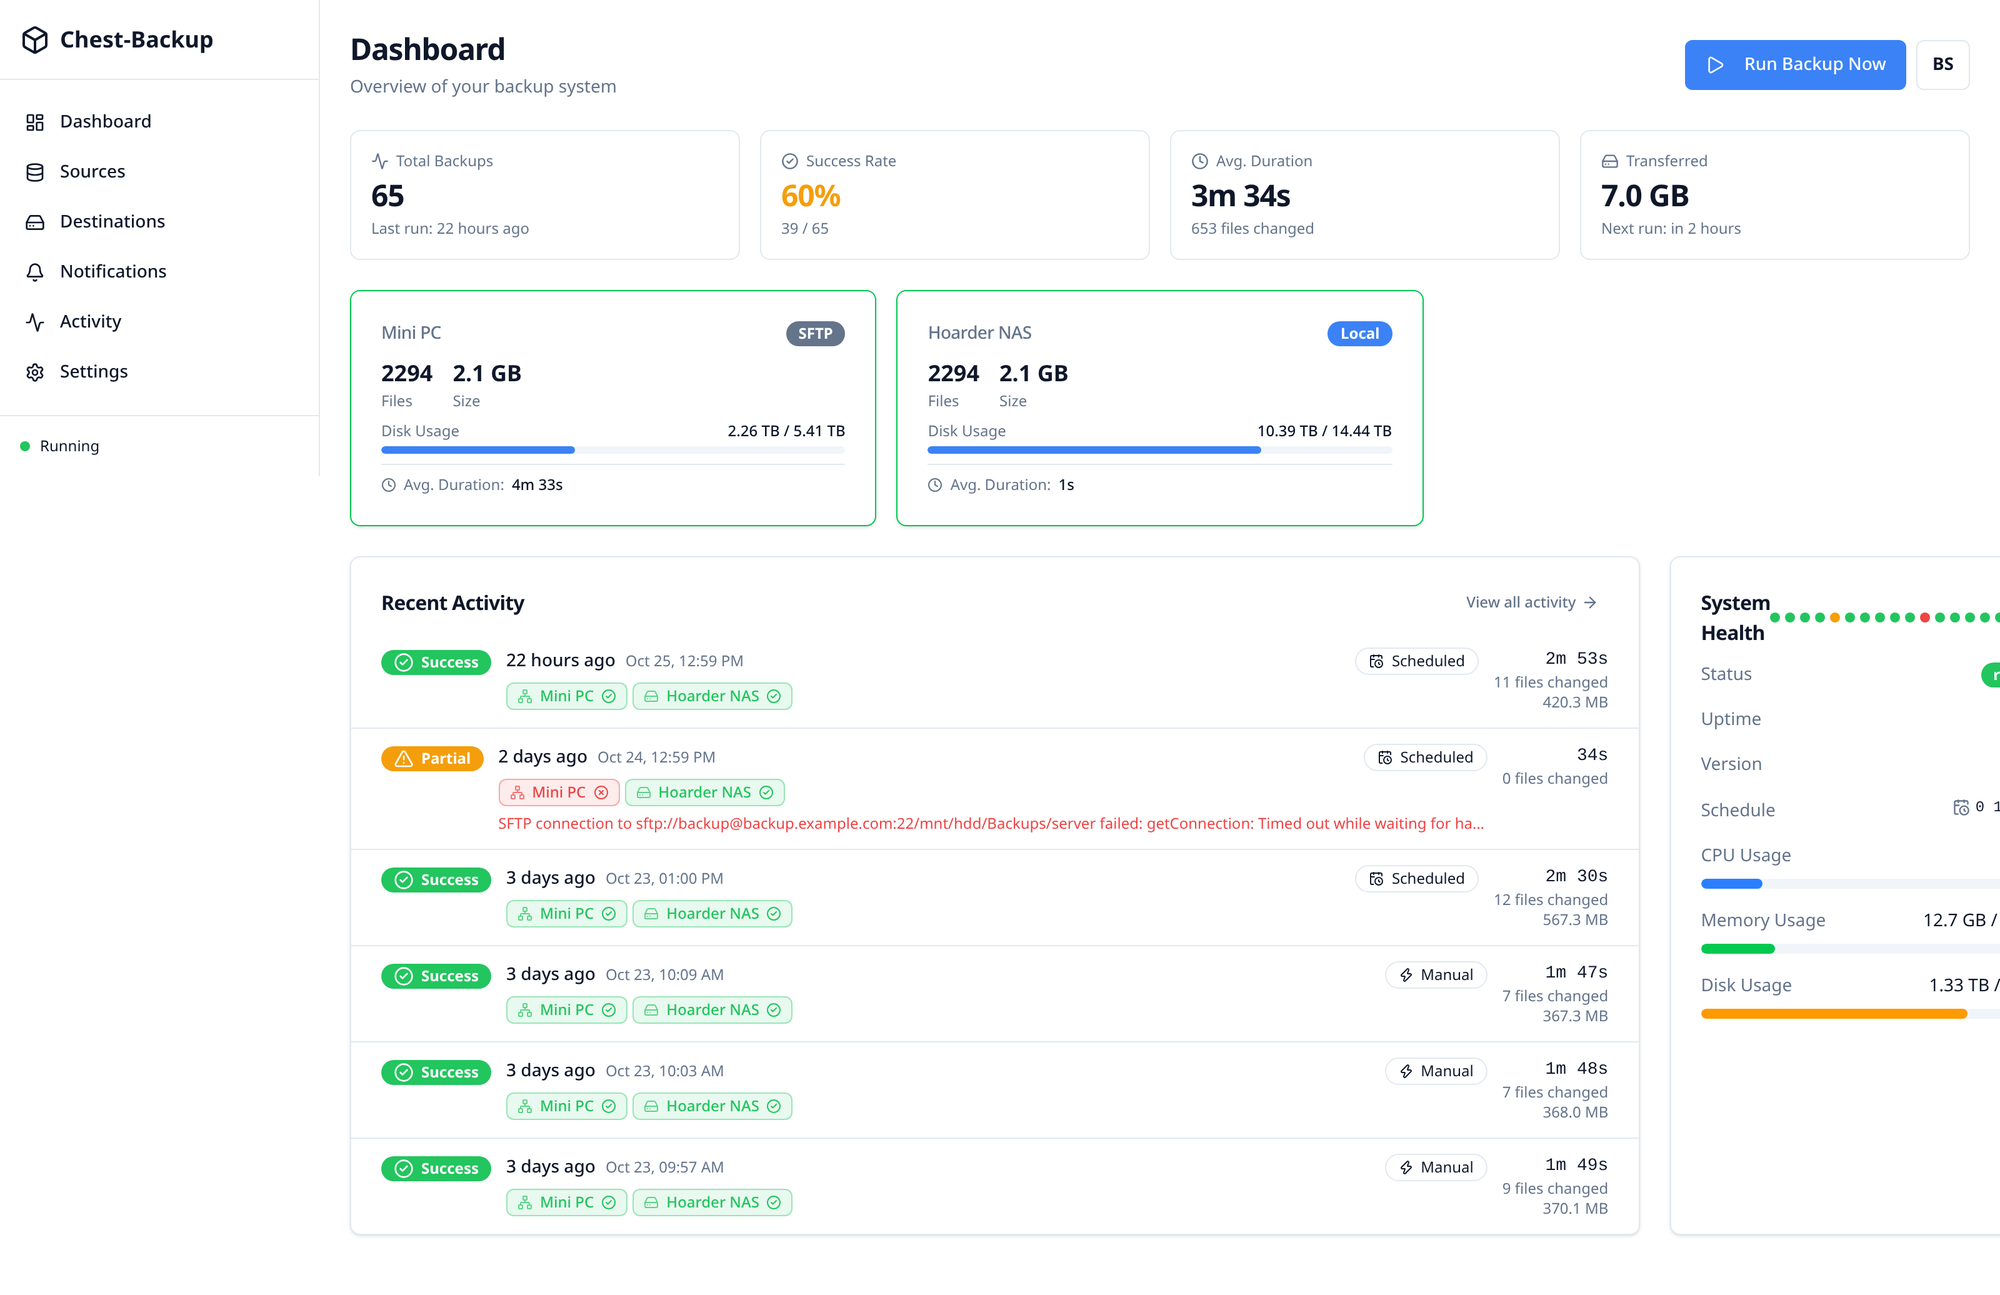
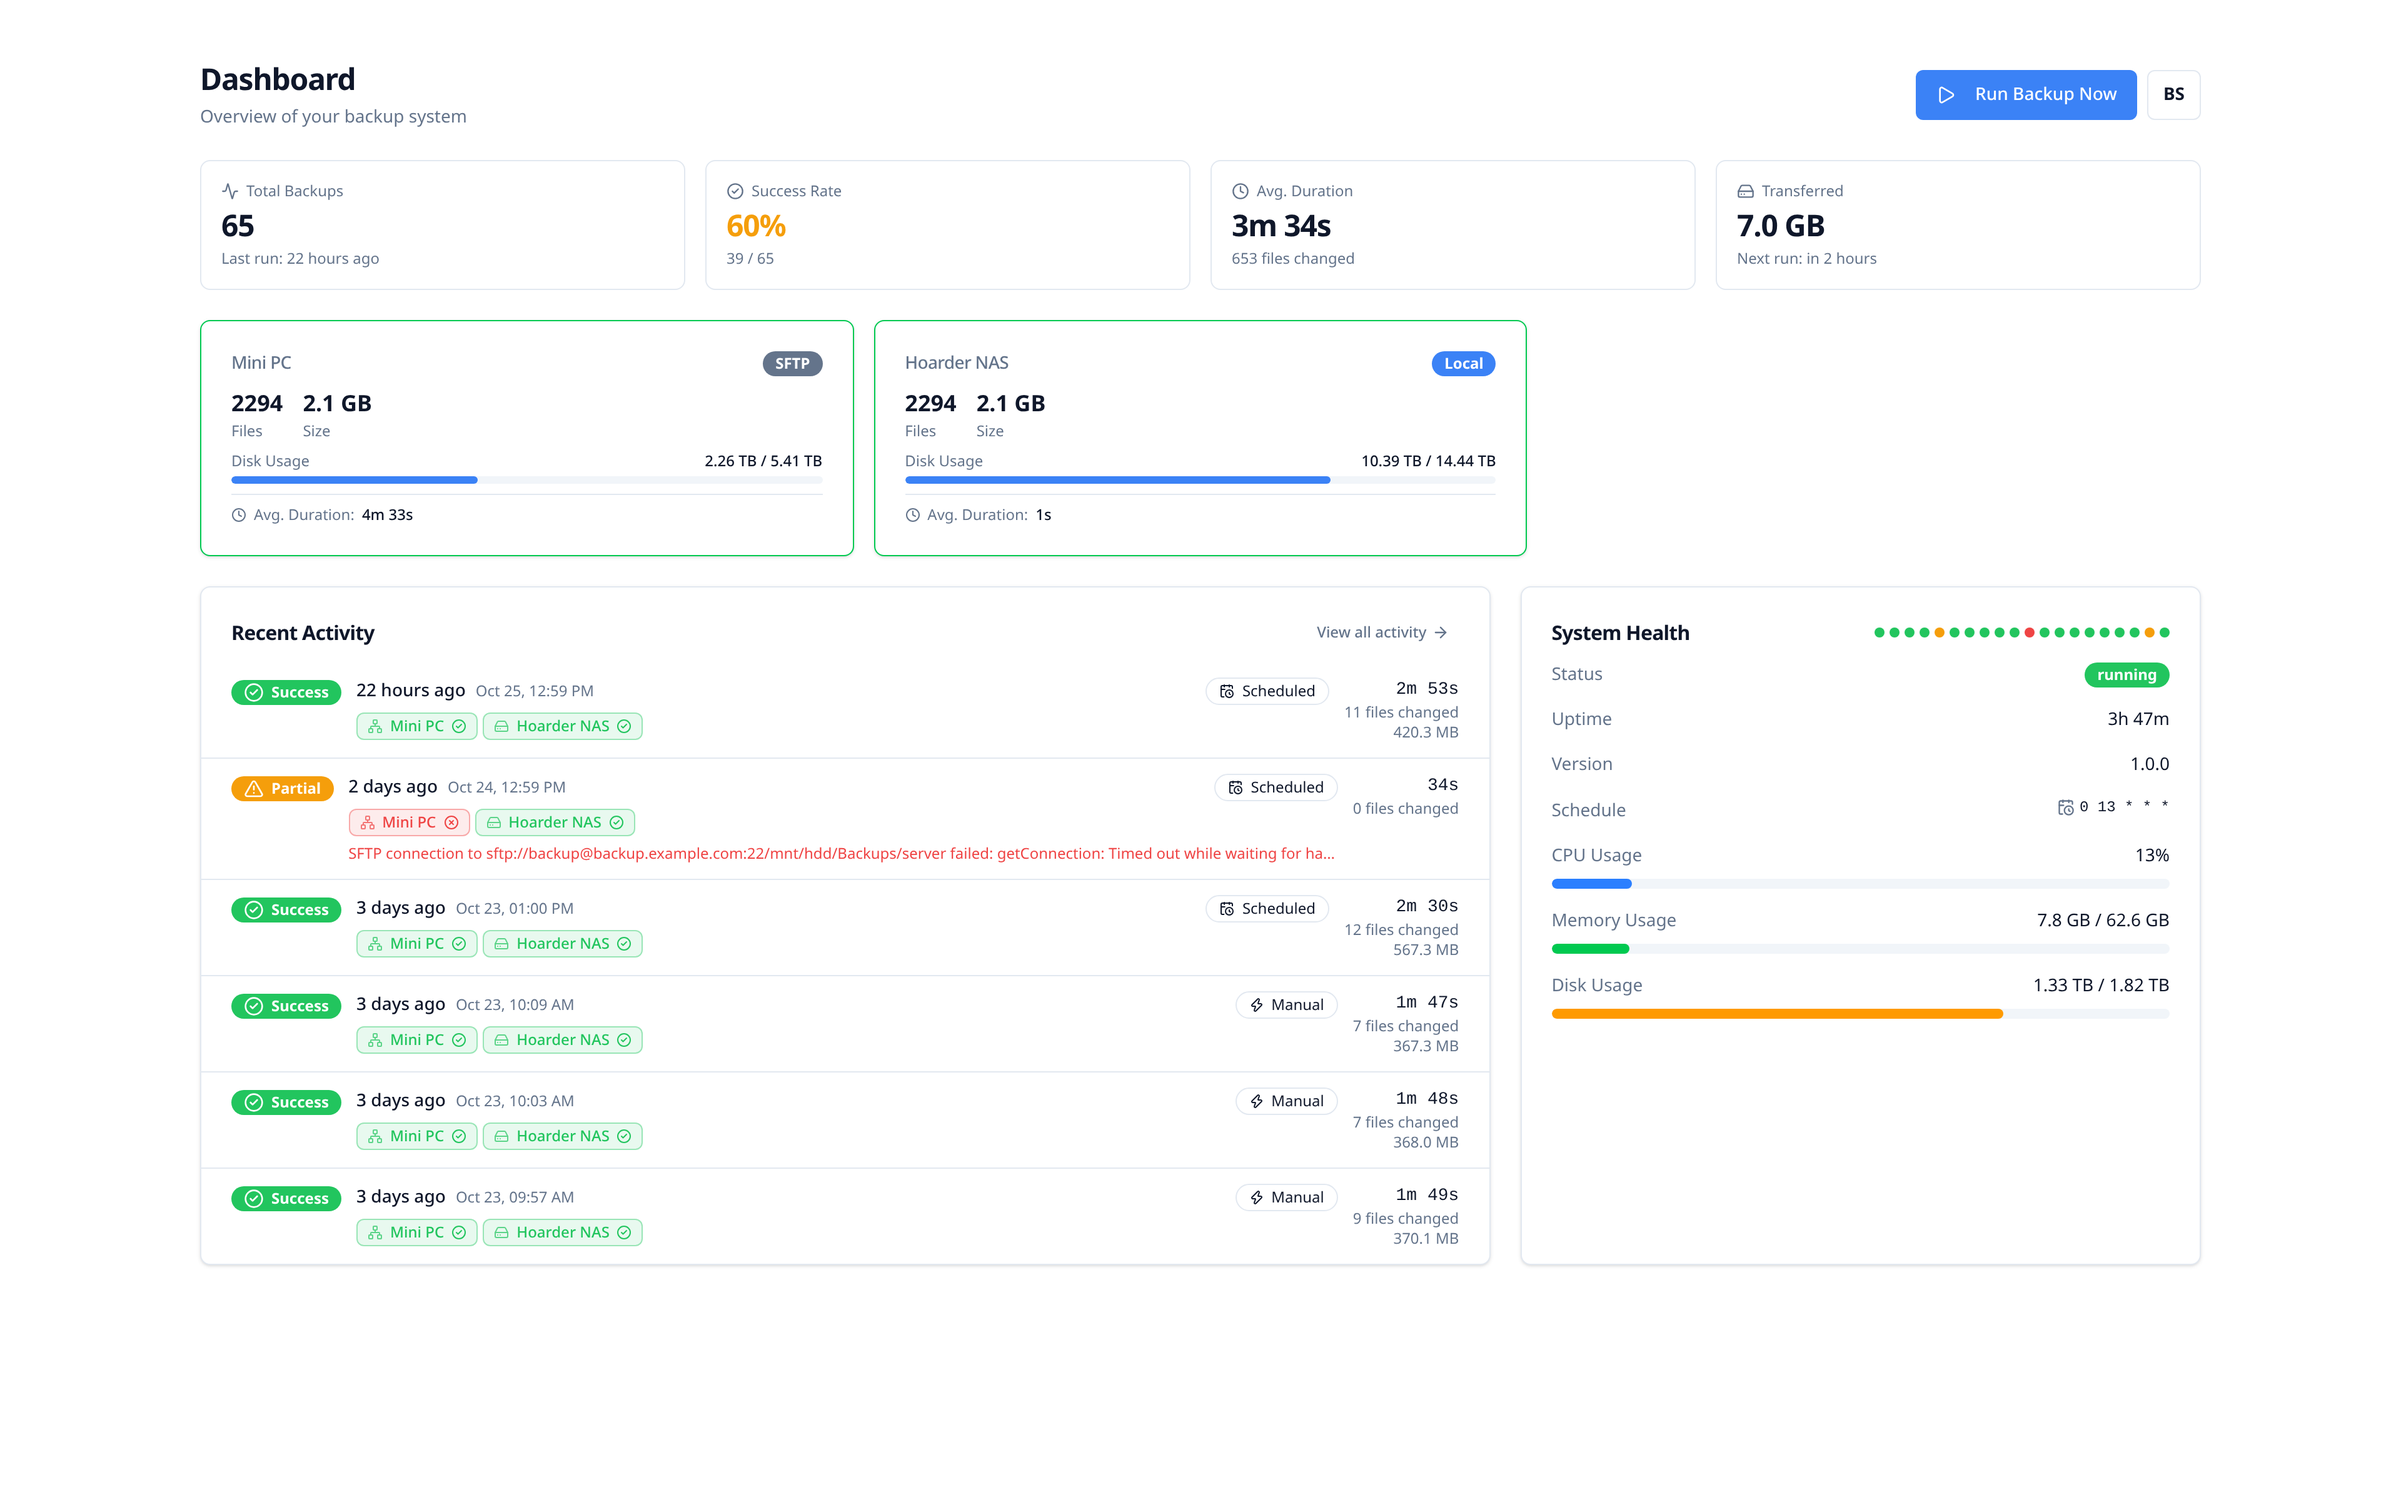
docs: combine add-source and add-destination screenshots into one; wider dashboard capture

diff --git a/README.md b/README.md
@@ -33,11 +33,8 @@ A full-stack backup management system — schedule and monitor backups of files,
 ### Notifications
 ![Notifications](https://raw.githubusercontent.com/brankosimic/chest-backup/main/docs/screenshots/notifications.png)
 
-### Add source
-![Add source](https://raw.githubusercontent.com/brankosimic/chest-backup/main/docs/screenshots/sources_new.png)
-
-### Add destination
-![Add destination](https://raw.githubusercontent.com/brankosimic/chest-backup/main/docs/screenshots/destinations_new.png)
+### Add source / Add destination
+![Add source and destination](https://raw.githubusercontent.com/brankosimic/chest-backup/main/docs/screenshots/forms.png)
 
 ## Architecture
 
